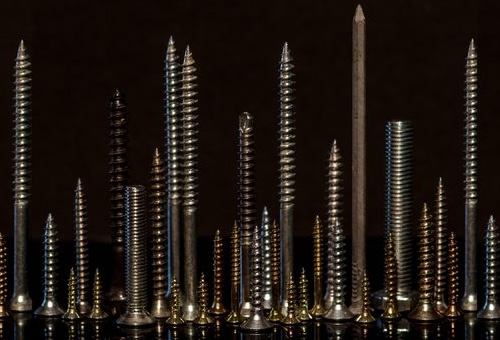
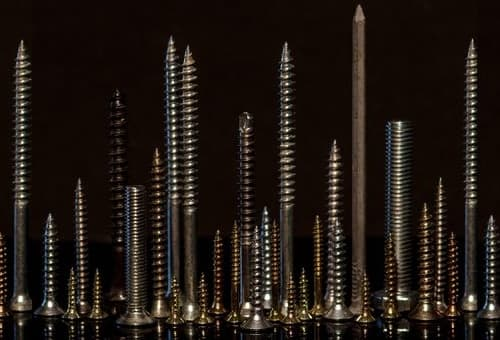
squoosh optimse images and remove unused images

diff --git a/_projects/9_project.md b/_projects/9_project.md
@@ -18,7 +18,7 @@ My results using Deep Learning were pretty impressive: We quickly achieved 100% 
 
 <div class="row" style="margin-top: 30px;">
     <div class="col-sm mt-3 mt-md-0">
-        {% include figure.html path="assets/img/pistachio-dataset-1.png" title="Samples of a pistachio dataset" class="img-fluid rounded z-depth-1" %}
+        {% include figure.html path="assets/img/pistachio-dataset-1.jpg" title="Samples of a pistachio dataset" class="img-fluid rounded z-depth-1" %}
     </div>
 </div>
 <div class="caption">
@@ -37,6 +37,6 @@ My results using Deep Learning were pretty impressive: We quickly achieved 100% 
 
 <div class="row" style="margin-top: 30px;">
     <div class="col-sm mt-3 mt-md-0">
-        {% include figure.html path="assets/img/pistachio-dataset-2.jpeg" title="Creating a pistachio dataset" class="img-fluid rounded z-depth-1" %}
+        {% include figure.html path="assets/img/pistachio-dataset-2.jpg" title="Creating a pistachio dataset" class="img-fluid rounded z-depth-1" %}
     </div>
 </div>

diff --git a/_projects/3_project.md b/_projects/3_project.md
@@ -2,7 +2,7 @@
 layout: product_page
 title: Website visitor prediction
 description: Using AI to predict website visitor journeys.
-img: assets/img/browser-1666995_640.png
+img: assets/img/browser-1666995_640.jpg
 permalink: /projects/ai-customer-journey-prediction
 importance: 7
 category:
@@ -16,7 +16,7 @@ We were approached by a software development company to develop a customer journ
 
 <div class="row" style="margin-top: 30px;">
     <div class="col-sm mt-3 mt-md-0">
-        {% include figure.html path="assets/img/ai-customer-journey-prediction.png" title="AI Prediction Improvements over baseline chart." class="img-fluid rounded z-depth-1" %}
+        {% include figure.html path="assets/img/ai-customer-journey-prediction.jpg" title="AI Prediction Improvements over baseline chart." class="img-fluid rounded z-depth-1" %}
     </div>
 </div>
 <div class="caption">

diff --git a/_projects/1_project.md b/_projects/1_project.md
@@ -18,7 +18,7 @@ The solution speeds up the customer support and ordering processes. Where in the
 
 <div class="row" style="margin-top: 30px;">
     <div class="col-sm mt-3 mt-md-0">
-        {% include figure.html path="assets/img/product-identifier.png" title="UI of the product identifier AI" class="img-fluid rounded z-depth-1" %}
+        {% include figure.html path="assets/img/product-identifier.jpg" title="UI of the product identifier AI" class="img-fluid rounded z-depth-1" %}
     </div>
 </div>
 <div class="caption">
